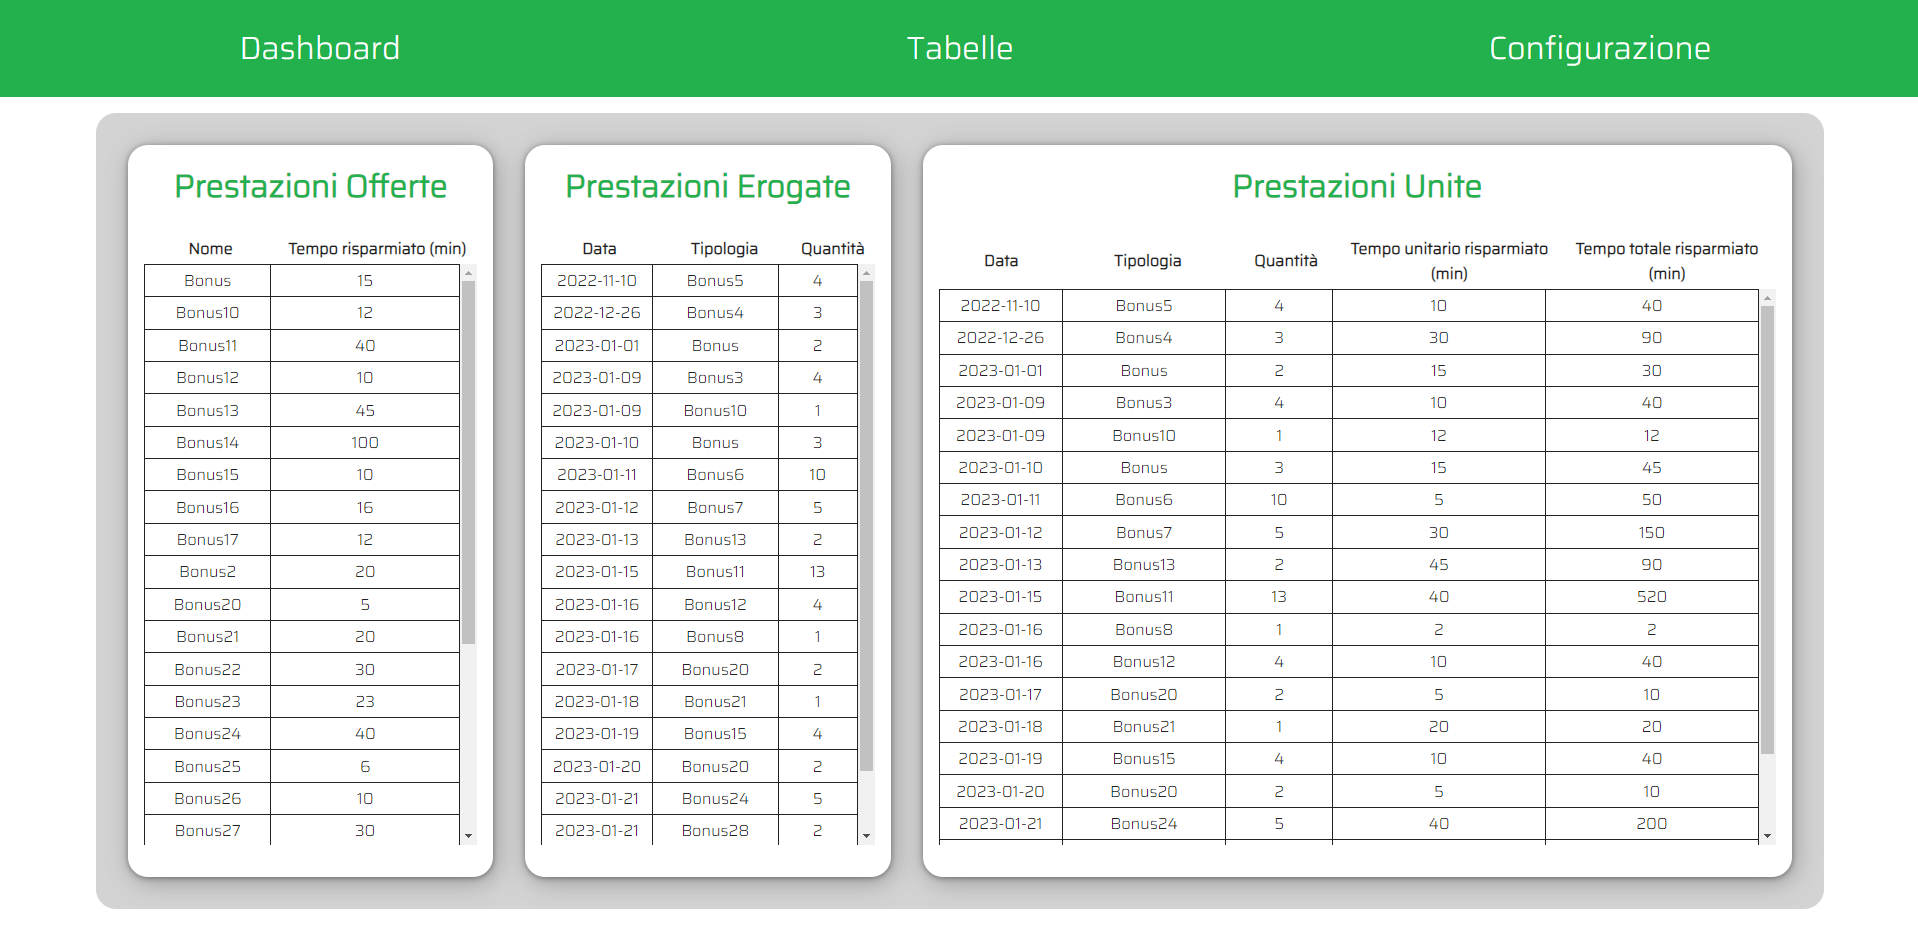
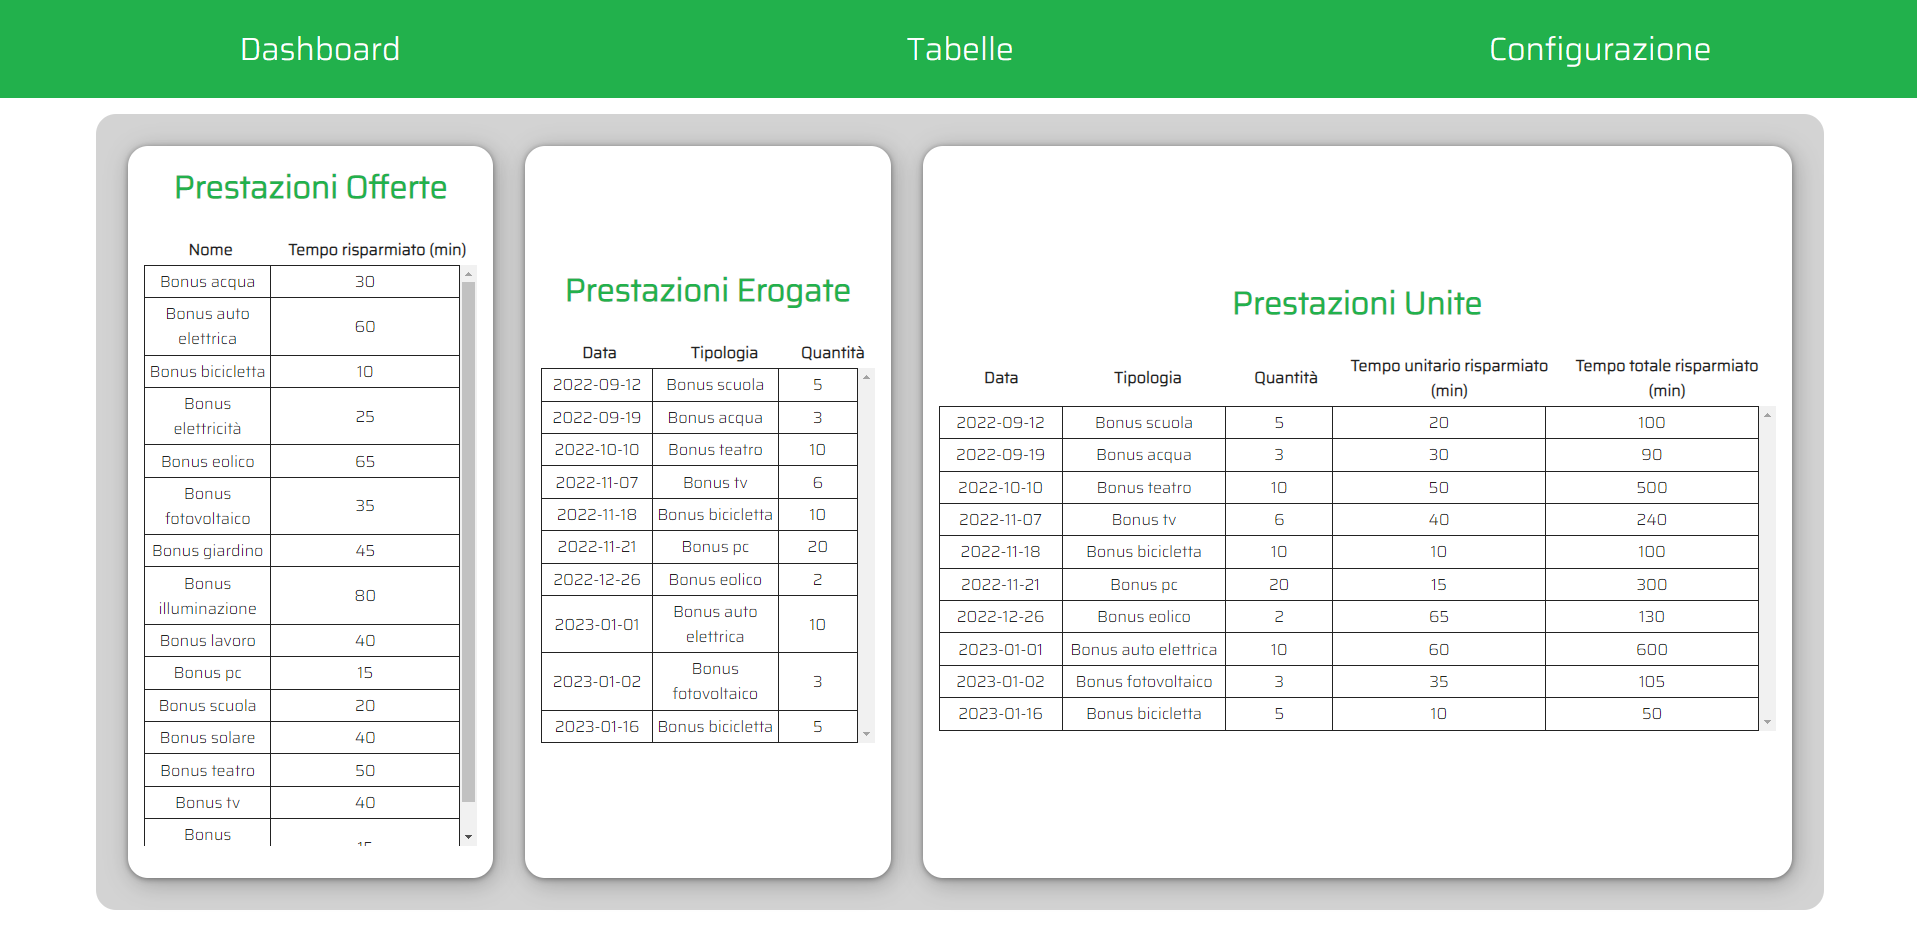
Update commit

diff --git a/README.md b/README.md
@@ -264,7 +264,8 @@ Collegamento al progetto: [https://github.com/jacopovaccarini/Start2Impact_PHP_M
 [screenshot-updatepe]: public/img/AggiornarePrestazioneErogata.png
 [screenshot-deletepe]: public/img/CancellarePrestazioneErogata.png
 [screenshot-filterdate]: public/img/FiltrareData.png
-[screenshot-filtertype]: public/img/FiltrareData.png
+[screenshot-filtertype]: public/img/FiltrareTipologia.png
+[screenshot-filterdatetype]: public/img/FiltrareDataTipologia.png
 [screenshot-timesaved]: public/img/TempoRisparmiato.png
 [screenshot-progetto1]: public/img/screenshot1.png
 [screenshot-progetto2]: public/img/screenshot2.png
